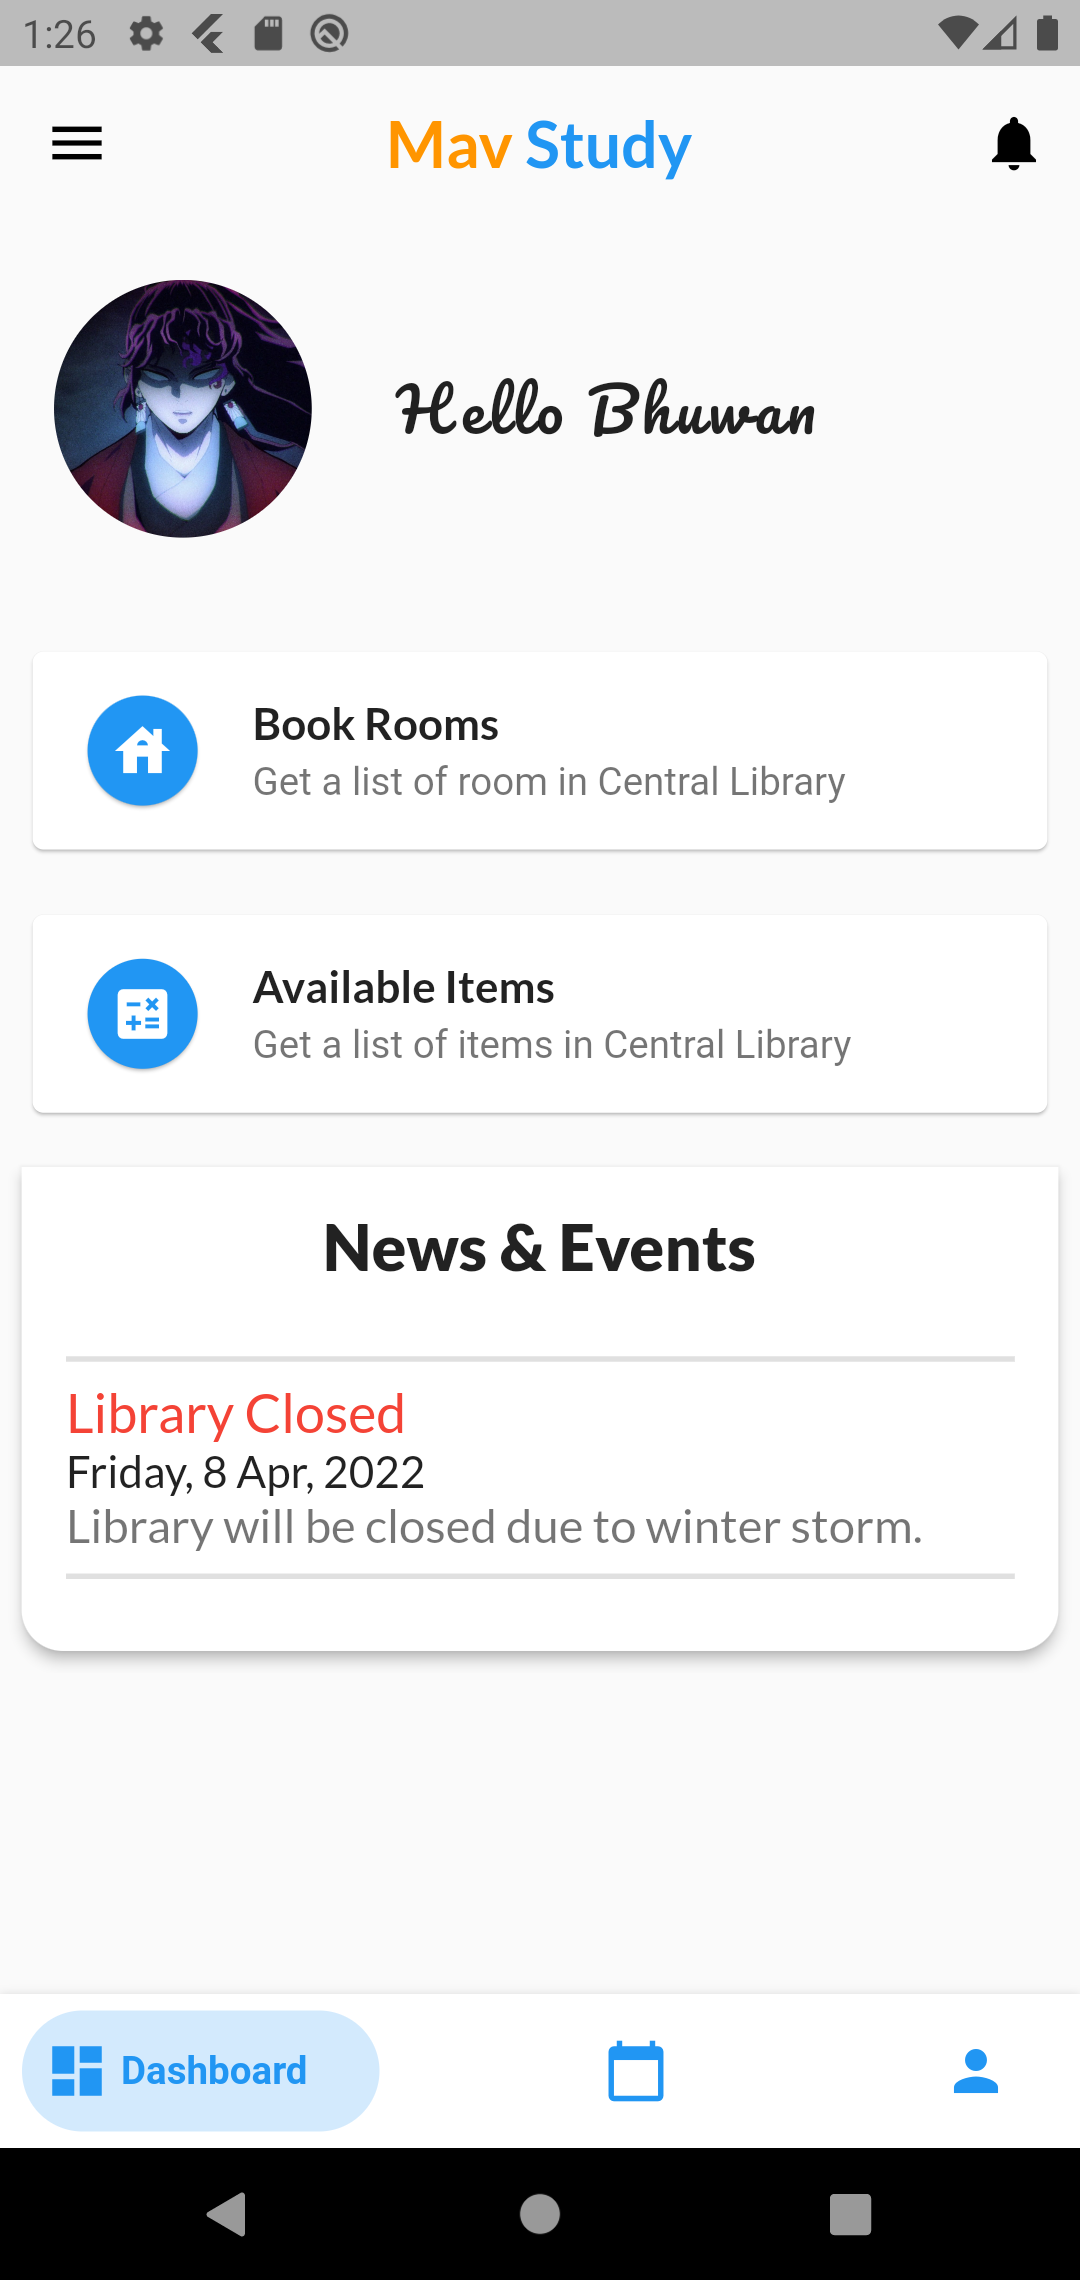
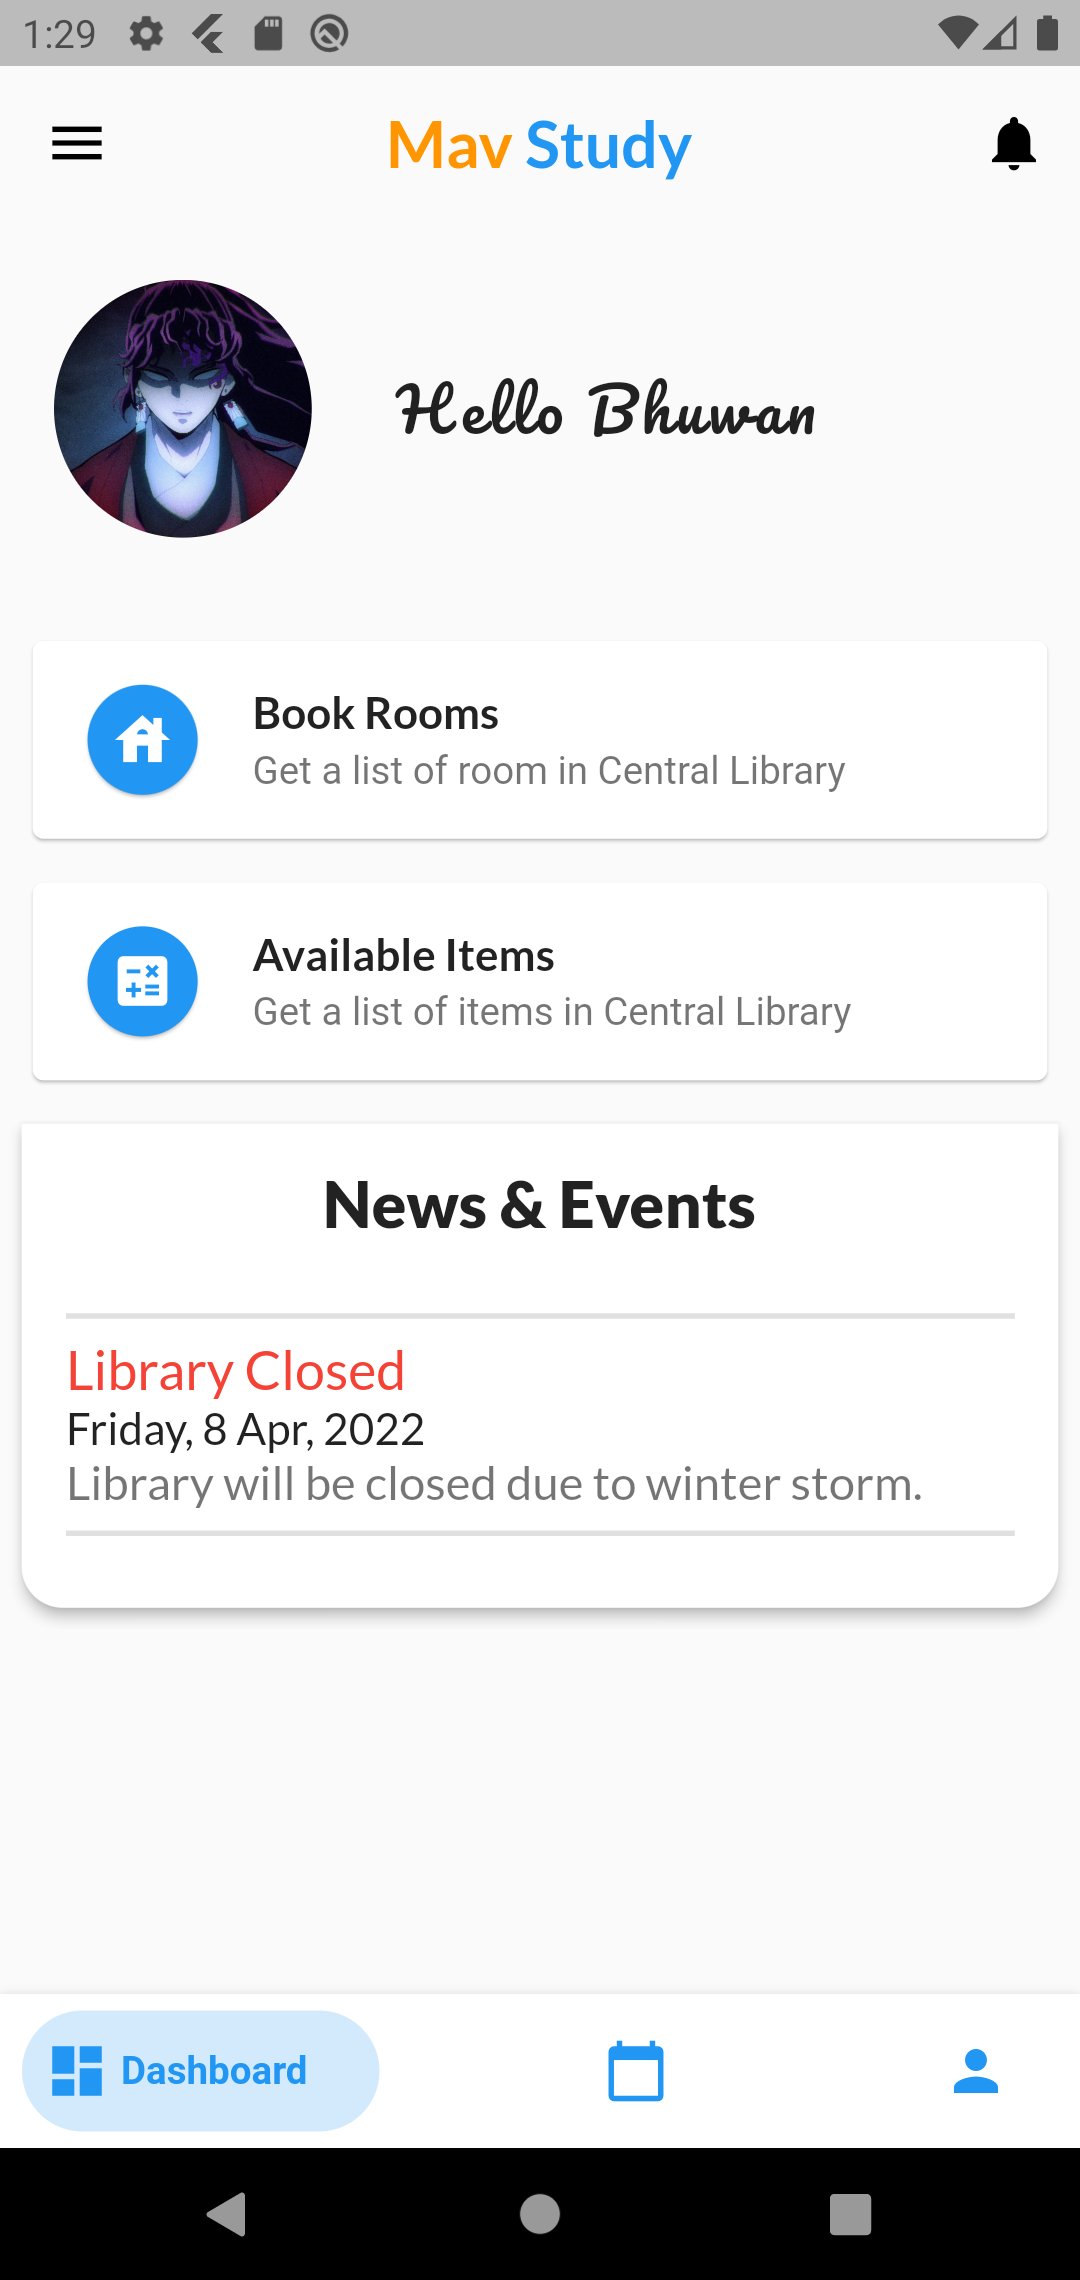
IOS support

diff --git a/lib/pages/profile_page/profile_page.dart b/lib/pages/profile_page/profile_page.dart
@@ -64,9 +64,23 @@ class _ProfilePageState extends State<ProfilePage> {
           sliver: SliverToBoxAdapter(
             child: Card(
               child: ListTile(
-                leading: const Icon(Icons.dark_mode),
+                leading: Card(
+                  color: ThemeTools.primaryColor,
+                  shape: const CircleBorder(),
+                  child: const Padding(
+                    padding: EdgeInsets.all(8.0),
+                    child: Icon(
+                      Icons.dark_mode,
+                      color: Colors.white,
+                    ),
+                  ),
+                ),
                 title: Text(
                   "Dark Mode",
+                  style: GoogleFonts.lato(),
+                ),
+                subtitle: Text(
+                  "Change Theme",
                   style: GoogleFonts.lato(),
                 ),
                 trailing: Switch(
@@ -85,8 +99,25 @@ class _ProfilePageState extends State<ProfilePage> {
           sliver: SliverToBoxAdapter(
             child: Card(
               child: ListTile(
-                leading: const Icon(Icons.person),
-                title: Text(widget.user.fullName),
+                leading: Card(
+                  color: ThemeTools.secondaryColor,
+                  shape: const CircleBorder(),
+                  child: const Padding(
+                    padding: EdgeInsets.all(8.0),
+                    child: Icon(
+                      Icons.person,
+                      color: Colors.white,
+                    ),
+                  ),
+                ),
+                title: Text(
+                  widget.user.fullName,
+                  style: GoogleFonts.lato(),
+                ),
+                subtitle: Text(
+                  "Full Name",
+                  style: GoogleFonts.lato(),
+                ),
                 trailing: IconButton(
                     onPressed: () {
                       showModalBottomSheet(
@@ -105,8 +136,25 @@ class _ProfilePageState extends State<ProfilePage> {
           sliver: SliverToBoxAdapter(
             child: Card(
               child: ListTile(
-                title: const Text("History"),
-                leading: const Icon(Icons.history),
+                title: Text(
+                  "History",
+                  style: GoogleFonts.lato(),
+                ),
+                subtitle: Text(
+                  "Check you room booking history",
+                  style: GoogleFonts.lato(),
+                ),
+                leading: Card(
+                  color: ThemeTools.secondaryColor,
+                  shape: const CircleBorder(),
+                  child: const Padding(
+                    padding: EdgeInsets.all(8.0),
+                    child: Icon(
+                      Icons.history,
+                      color: Colors.white,
+                    ),
+                  ),
+                ),
                 onTap: () {
                   // Navigate to order history UI
                   customNavigator(
@@ -116,7 +164,6 @@ class _ProfilePageState extends State<ProfilePage> {
                         user: widget.user,
                       ));
                 },
-                trailing: const Icon(Icons.forward),
               ),
             ),
           ),

diff --git a/lib/tools/app_drawer/app_drawer.dart b/lib/tools/app_drawer/app_drawer.dart
@@ -1,9 +1,7 @@
 import 'package:flutter/material.dart';
 import 'package:google_fonts/google_fonts.dart';
 import 'package:uta_library/models/user.dart';
-import 'package:uta_library/pages/profile_page/profile_page.dart';
 import 'package:uta_library/pages/room_booked_page/room_booked_page.dart';
-import 'package:uta_library/screens/home_screen/home_screen.dart';
 import 'package:uta_library/screens/landing_screen/landing_screen.dart';
 import 'package:uta_library/tools/app_drawer/components/app_drawer_header.dart';
 import 'package:uta_library/tools/custom_navigator.dart';

diff --git a/lib/pages/dashboard/components/dashboard_tile.dart b/lib/pages/dashboard/components/dashboard_tile.dart
@@ -18,7 +18,9 @@ class DashboardTile extends StatelessWidget {
   @override
   Widget build(BuildContext context) {
     return SliverPadding(
-      padding: EdgeInsets.all(customSize(context).width * 0.02),
+      padding: EdgeInsets.symmetric(
+          horizontal: customSize(context).width * 0.02,
+          vertical: customSize(context).width * 0.01),
       sliver: SliverToBoxAdapter(
         child: Card(
           child: ListTile(

diff --git a/lib/tools/theme_tools.dart b/lib/tools/theme_tools.dart
@@ -1,5 +1,3 @@
-import 'dart:io';
-
 import 'package:flutter/cupertino.dart';
 import 'package:flutter/material.dart';
 import 'package:theme_provider/theme_provider.dart';
